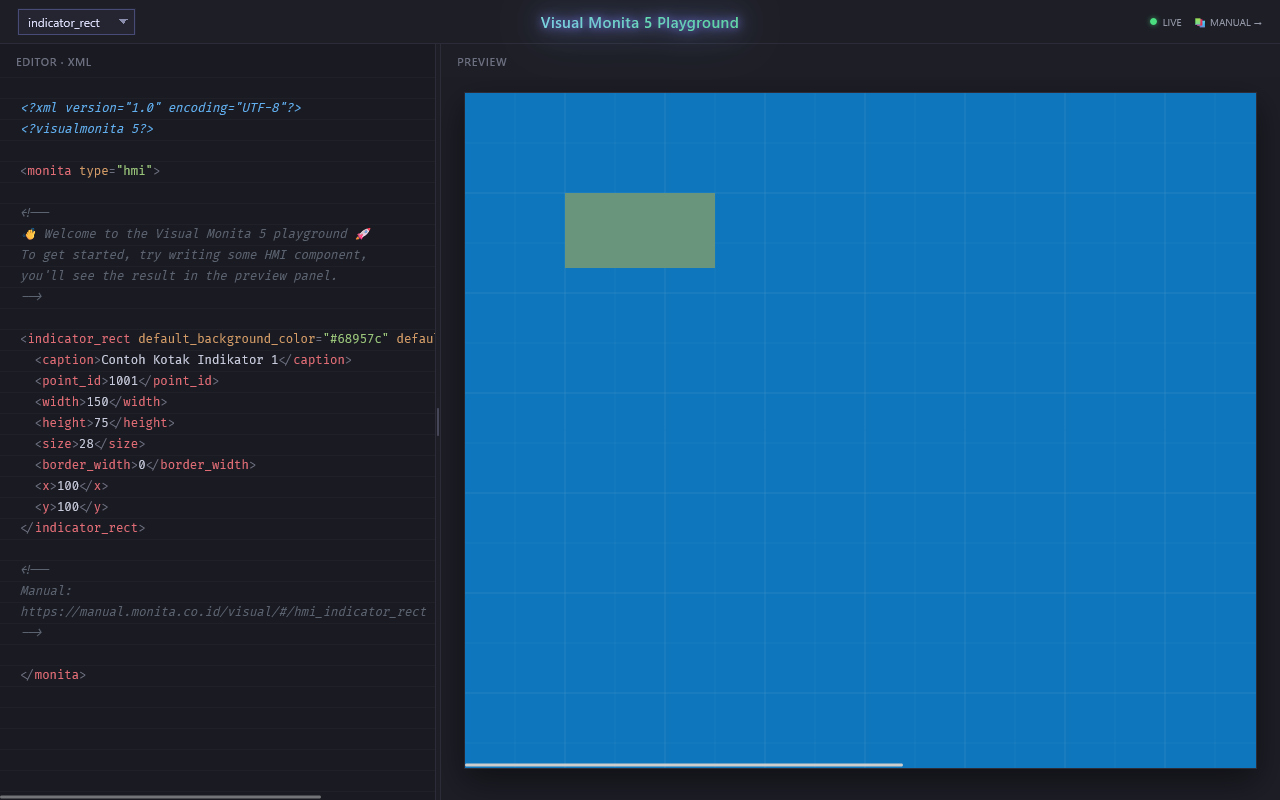
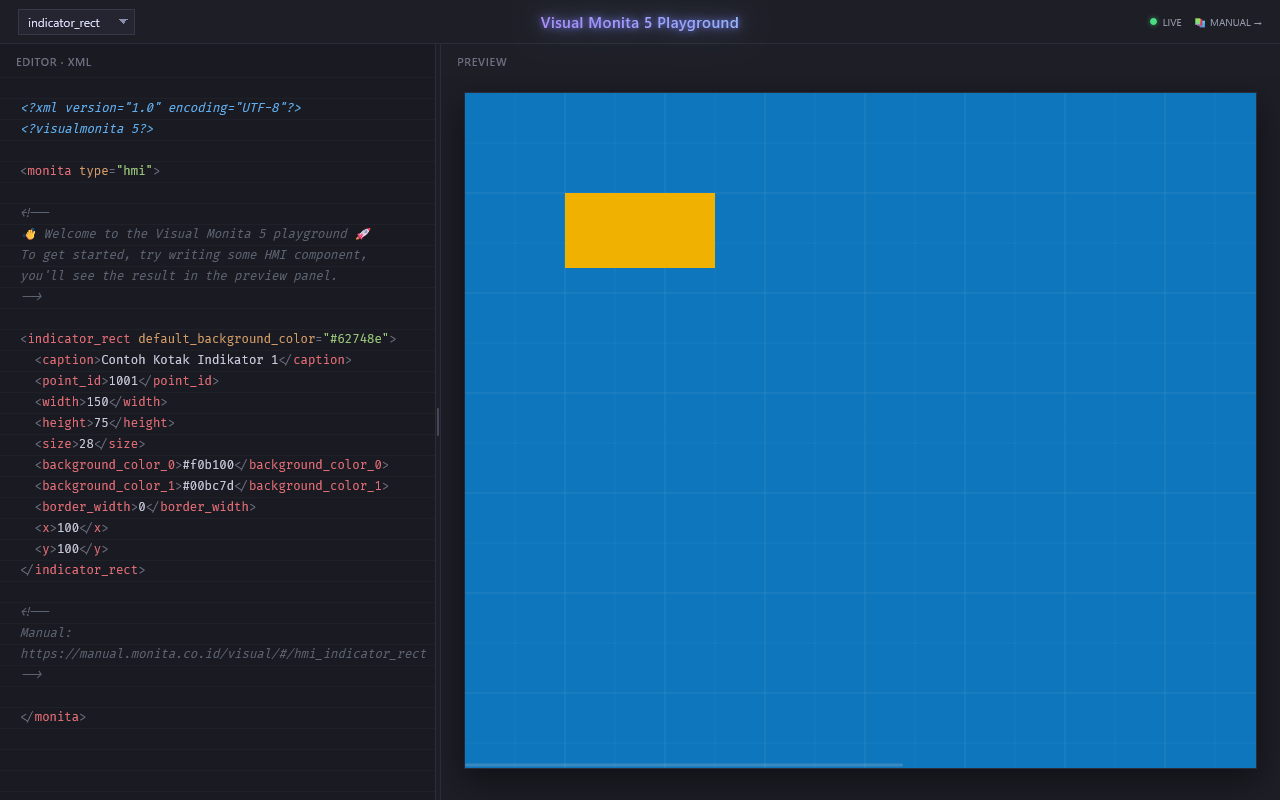
update sample indicator_* components

diff --git a/visual/hmi_indicator_image.md b/visual/hmi_indicator_image.md
@@ -7,8 +7,8 @@ Komponen ini berfungsi untuk menunjukkan data titik ukur dalam bentuk gambar den
   <caption>Contoh Gambar Indikator 1</caption>
   <point_id>1001</point_id>
   <source>/images/propeller.png</source>
-  <source_0>/images/propeller_off.png</source_0>
-  <source_1>/images/propeller_on.png</source_1>
+  <source_0>/images/propeller.png</source_0>
+  <source_1>/images/propeller.png</source_1>
   <animation>rotate</animation>
   <width>150</width>
   <height>150</height>
@@ -21,7 +21,7 @@ Komponen ini berfungsi untuk menunjukkan data titik ukur dalam bentuk gambar den
 
 https://playground.monita.co.id/?component=indicator_image
 
-![indicator_image](https://hackmd.io/_uploads/HkEr3mlUzg.png)
+![indicator_image](https://manual.monita.co.id/_assets/images/indicator_image.png)
 
 #### Properti selengkapnya:
 

diff --git a/visual/hmi_indicator_text.md b/visual/hmi_indicator_text.md
@@ -9,6 +9,8 @@ Komponen ini berfungsi untuk menunjukkan data titik ukur dalam bentuk teks _bool
   <content>IDLE</content>
   <content_0>STOP</content_0>
   <content_1>START</content_1>
+  <background_color_0>#f0b100</background_color_0>
+  <background_color_1>#00bc7d</background_color_1>
   <width>150</width>
   <height>75</height>
   <size>28</size>
@@ -29,7 +31,7 @@ Tag pembuka `<indicator_text>` tersebut memiliki atribut-atribut sebagai berikut
 
 https://playground.monita.co.id/?component=indicator_text
 
-![indicator_text](https://hackmd.io/_uploads/B1m0H7xIMe.png)
+![indicator_text](https://manual.monita.co.id/_assets/images/indicator_text.png)
 
 #### Properti selengkapnya:
 

diff --git a/visual/hmi_indicator_rect.md b/visual/hmi_indicator_rect.md
@@ -3,12 +3,14 @@
 Berikut contoh komponen HMI `indicator_rect` (kotak indikator):
 
 ```xml
-<indicator_rect default_background_color="#68957c" default_color="white">
+<indicator_rect default_background_color="#62748e">
   <caption>Contoh Kotak Indikator 1</caption>
   <point_id>1001</point_id>
   <width>150</width>
   <height>75</height>
   <size>28</size>
+  <background_color_0>#f0b100</background_color_0>
+  <background_color_1>#00bc7d</background_color_1>
   <border_width>0</border_width>
   <x>100</x>
   <y>100</y>

diff --git a/visual/common/_active_text.md b/visual/common/_active_text.md
@@ -6,6 +6,7 @@
   <height>75</height>
   <size>28</size>
   <border_width>0</border_width>
+  <unit>&#x2103;</unit> <!--°C-->
   <x>100</x>
   <y>100</y>
 </active_text>
